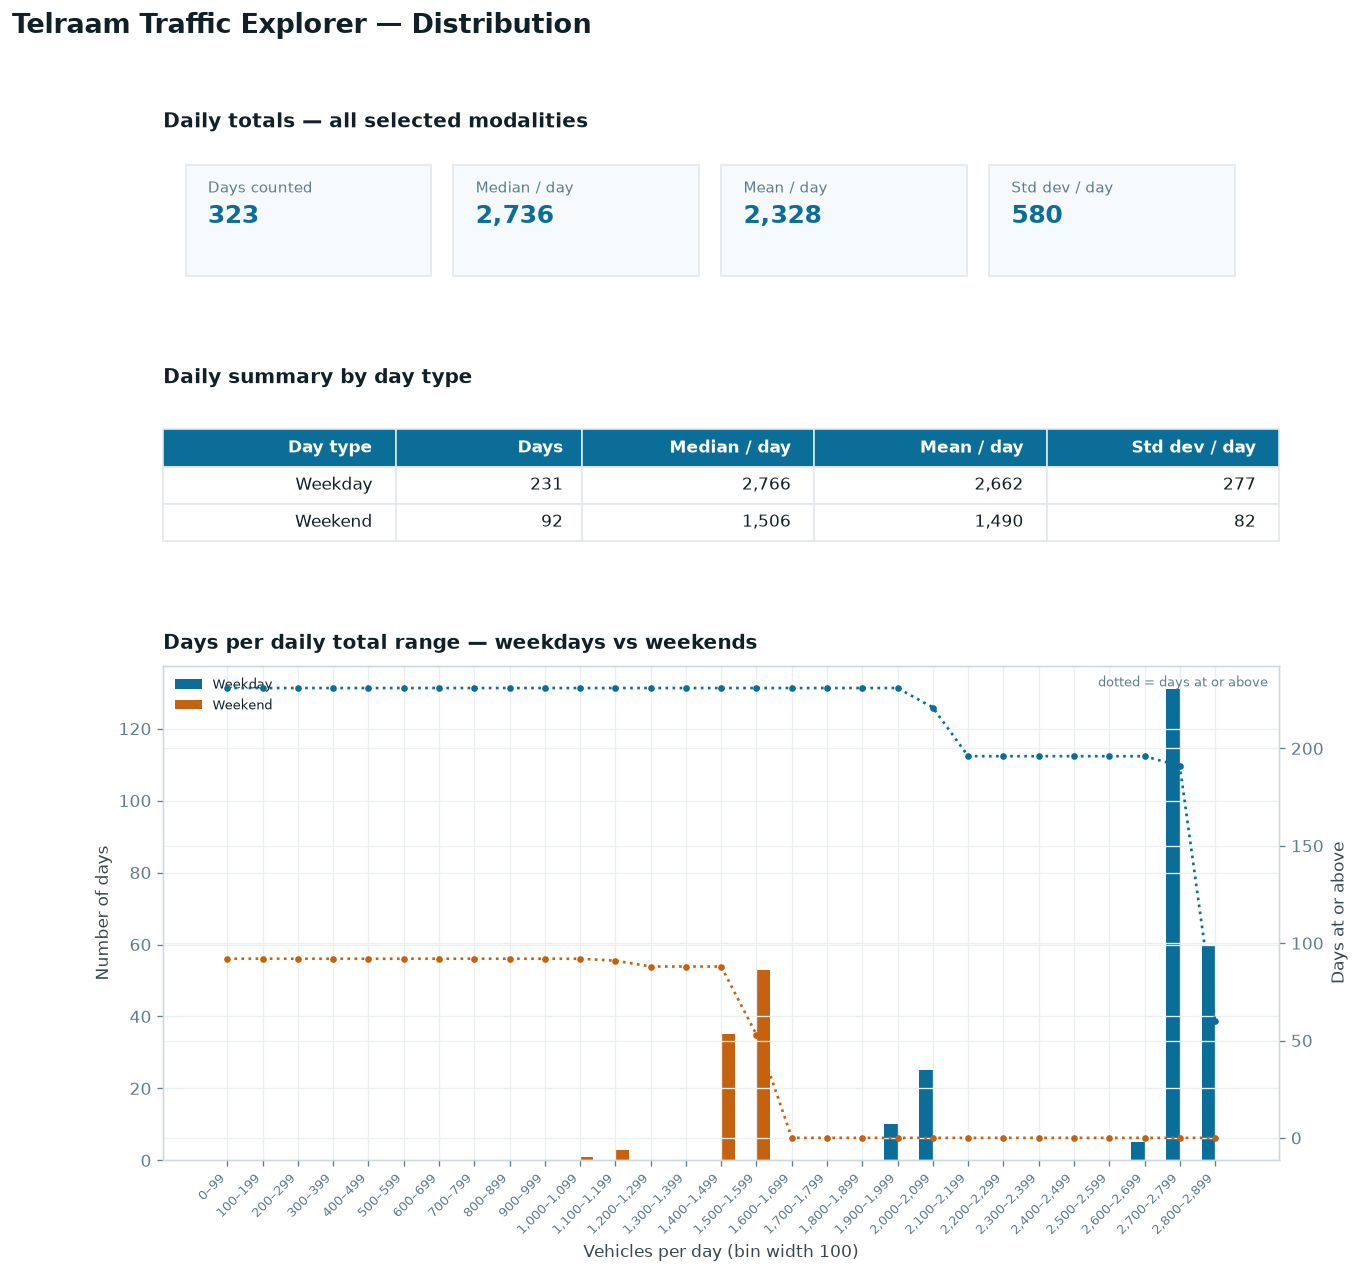
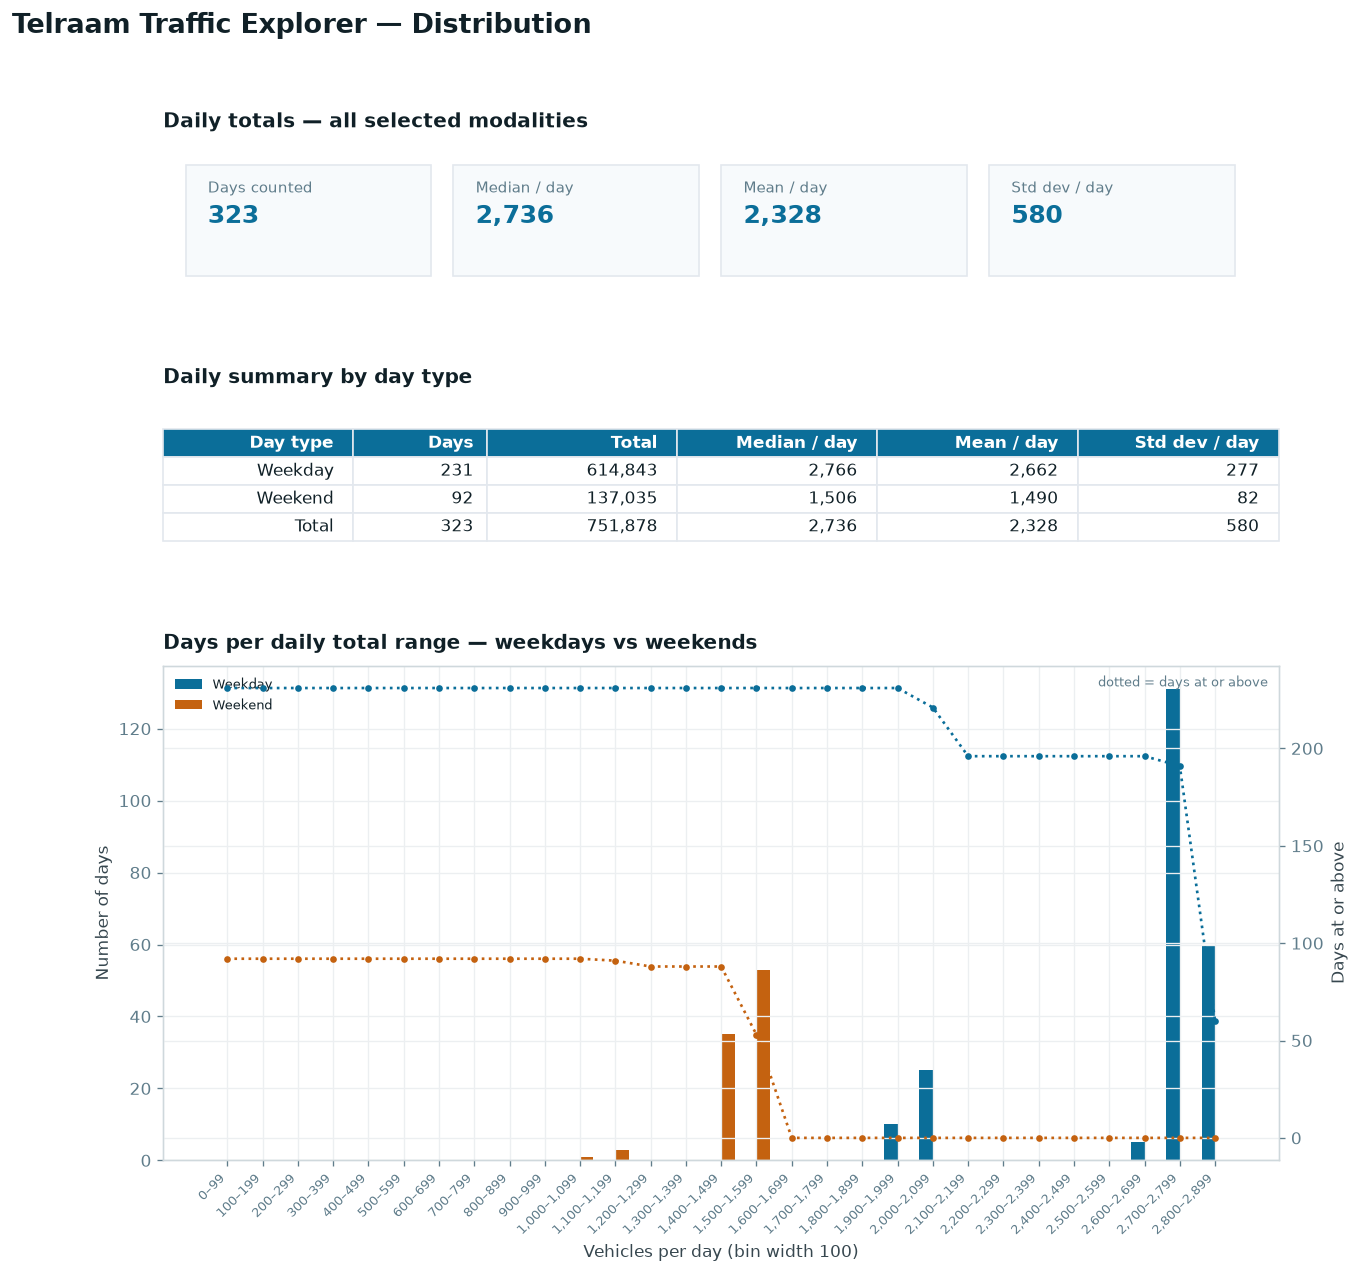
distribution: add summary totals and YTD preset

Changed region(s): [[0.1236, 0.337, 0.9581, 0.4289]]

diff --git a/views/distribution.py b/views/distribution.py
@@ -2,6 +2,7 @@
 
 from __future__ import annotations
 
+import pandas as pd
 import streamlit as st
 
 from analysis import (
@@ -86,16 +87,30 @@ def _kpi_cards(row, common_label: str | None = None) -> None:
     kpi_row(items)
 
 
-def _summary_display(summary):
-    return summary.rename(
+def _summary_display(summary, overall):
+    display = summary.rename(
         columns={
             DAY_TYPE_COL: "Day type",
             "days": "Days",
+            "total": "Total",
             "median": "Median / day",
             "mean": "Mean / day",
             "std": "Std dev / day",
         }
     )
+    total = pd.DataFrame(
+        [
+            {
+                "Day type": "Total",
+                "Days": int(overall["days"]),
+                "Total": overall["total"],
+                "Median / day": overall["median"],
+                "Mean / day": overall["mean"],
+                "Std dev / day": overall["std"],
+            }
+        ]
+    )
+    return pd.concat([display, total], ignore_index=True)
 
 
 def render() -> None:
@@ -169,12 +184,14 @@ def render() -> None:
 
     if split:
         st.subheader("Daily summary by day type")
+        display_summary = _summary_display(summary, overall)
         st.dataframe(
-            _summary_display(summary),
+            display_summary,
             use_container_width=True,
             hide_index=True,
             column_config={
                 "Days": st.column_config.NumberColumn(format="%d"),
+                "Total": st.column_config.NumberColumn(format="%d"),
                 "Median / day": st.column_config.NumberColumn(format="%.0f"),
                 "Mean / day": st.column_config.NumberColumn(format="%.0f"),
                 "Std dev / day": st.column_config.NumberColumn(format="%.0f"),
@@ -208,7 +225,7 @@ def render() -> None:
     csv_download(hist, "daily_distribution.csv", "Download distribution (CSV)")
     if split:
         csv_download(
-            _summary_display(summary),
+            display_summary,
             "daily_summary.csv",
             "Download summary (CSV)",
         )

diff --git a/tests/test_views_smoke.py b/tests/test_views_smoke.py
@@ -237,3 +237,49 @@ def test_typical_week_groups_follow_the_comparison_axis():
     assert weekday.loc["Sat"].isna().all()
     assert weekend.loc["Sat"].notna().all()
     assert weekend.loc["Mon"].isna().all()
+
+
+def test_distribution_summary_table_includes_a_total_row():
+    import pandas as pd
+
+    from views.distribution import _summary_display
+
+    summary = pd.DataFrame(
+        {
+            "day_type": ["Weekday", "Weekend"],
+            "days": [5, 2],
+            "total": [1200.0, 960.0],
+            "median": [240.0, 480.0],
+            "mean": [240.0, 480.0],
+            "std": [0.0, 0.0],
+        }
+    )
+    overall = pd.Series(
+        {
+            "days": 7,
+            "total": 2160.0,
+            "median": 240.0,
+            "mean": 308.571,
+            "std": 108.42,
+        }
+    )
+
+    display = _summary_display(summary, overall)
+
+    assert display.iloc[-1]["Day type"] == "Total"
+    assert display.iloc[-1]["Days"] == 7
+    assert display.iloc[-1]["Total"] == 2160.0
+    assert list(display.columns) == [
+        "Day type",
+        "Days",
+        "Total",
+        "Median / day",
+        "Mean / day",
+        "Std dev / day",
+    ]
+
+
+def test_sidebar_presets_include_year_to_date():
+    from ui.controls import RANGE_PRESETS, YEAR_TO_DATE
+
+    assert YEAR_TO_DATE in RANGE_PRESETS

diff --git a/ui/controls.py b/ui/controls.py
@@ -34,16 +34,19 @@ DEFAULT_MODALITIES = ("pedestrian", "bike", "car", "heavy", "night")
 
 # Range presets in days. ``None`` means "everything since the API's earliest
 # data"; ``CUSTOM_RANGE`` asks for explicit dates.
+CUSTOM_RANGE = "Custom range"
+YEAR_TO_DATE = "Year to date (YTD)"
+DEFAULT_RANGE = "All time"
+
 RANGE_PRESETS: dict[str, int | None] = {
     "Last 30 days": 30,
     "Last 90 days": 90,
     "Last 6 months": 182,
     "Last 12 months": 365,
+    YEAR_TO_DATE: -2,
     "All time": None,
-    "Custom range": -1,
+    CUSTOM_RANGE: -1,
 }
-CUSTOM_RANGE = "Custom range"
-DEFAULT_RANGE = "All time"
 
 
 def _date_range(config) -> tuple[date, date]:
@@ -61,11 +64,15 @@ def _date_range(config) -> tuple[date, date]:
         end = col_end.date_input("To", value=date.today(), key="range_end")
         return start, end + timedelta(days=1)
 
+    today = date.today()
+    end = today + timedelta(days=1)
+    if preset == YEAR_TO_DATE:
+        return date(today.year, 1, 1), end
+
     span = RANGE_PRESETS[preset]
-    end = date.today() + timedelta(days=1)
     if span is None:
         return config.earliest_data, end
-    return date.today() - timedelta(days=span - 1), end
+    return today - timedelta(days=span - 1), end
 
 
 def _load(segment_id: str, start: date, end: date) -> tuple[pd.DataFrame | None, str | None]:

diff --git a/scripts/render_previews.py b/scripts/render_previews.py
@@ -479,18 +479,30 @@ def render_distribution(out_dir: Path, dpi: int):
     ax_table = fig.add_subplot(gs[1, :])
     ax_table.axis("off")
     titled(ax_table, "Daily summary by day type")
-    rows = [["Day type", "Days", "Median / day", "Mean / day", "Std dev / day"]]
+    rows = [[
+        "Day type", "Days", "Total", "Median / day", "Mean / day",
+        "Std dev / day",
+    ]]
     for _, r in summary.iterrows():
         rows.append([
             r[DAY_TYPE_COL],
             int(r["days"]),
+            f"{r['total']:,.0f}",
             f"{r['median']:,.0f}",
             f"{r['mean']:,.0f}",
             f"{r['std']:,.0f}",
         ])
+    rows.append([
+        "Total",
+        int(overall["days"]),
+        f"{overall['total']:,.0f}",
+        f"{overall['median']:,.0f}",
+        f"{overall['mean']:,.0f}",
+        f"{overall['std']:,.0f}",
+    ])
     styled_table(
         ax_table, rows, [0.0, 0.05, 1.0, 0.75],
-        [0.2, 0.16, 0.2, 0.2, 0.2],
+        [0.17, 0.12, 0.17, 0.18, 0.18, 0.18],
     )
 
     ax = fig.add_subplot(gs[2])

diff --git a/tests/test_aggregates.py b/tests/test_aggregates.py
@@ -192,14 +192,17 @@ def test_daily_summary_splits_weekday_and_weekend(make_df):
     ).set_index(DAY_TYPE_COL)
 
     assert summary.loc["Weekday", "days"] == 5
+    assert summary.loc["Weekday", "total"] == 1200.0
     assert summary.loc["Weekday", "median"] == 240.0
     assert summary.loc["Weekday", "std"] == 0.0
     assert summary.loc["Weekend", "days"] == 2
+    assert summary.loc["Weekend", "total"] == 960.0
     assert summary.loc["Weekend", "median"] == 480.0
     assert summary.loc["Weekend", "std"] == 0.0
 
     overall = compute_daily_summary(df, "car").iloc[0]
     assert overall["days"] == 7
+    assert overall["total"] == 2160.0
     assert overall["median"] == 240.0
     assert overall["std"] > 0
 
@@ -214,4 +217,5 @@ def test_daily_summary_reports_population_standard_deviation():
 
     summary = compute_daily_summary(df, "car").iloc[0]
 
+    assert summary["total"] == 600.0
     assert math.isclose(summary["std"], 81.6497, rel_tol=1e-4)

diff --git a/analysis/aggregates.py b/analysis/aggregates.py
@@ -157,7 +157,7 @@ def compute_daily_histogram(
     return pd.DataFrame(_histogram_rows(binned), columns=columns)
 
 
-_DAILY_SUMMARY_COLUMNS = ["days", "median", "mean", "std"]
+_DAILY_SUMMARY_COLUMNS = ["days", "total", "median", "mean", "std"]
 
 
 def compute_daily_summary(
@@ -177,6 +177,7 @@ def compute_daily_summary(
     def stats(values: pd.Series) -> dict:
         return {
             "days": int(values.size),
+            "total": float(values.sum()),
             "median": float(values.median()),
             "mean": float(values.mean()),
             "std": float(values.std(ddof=0)),

diff --git a/README.md b/README.md
@@ -38,7 +38,7 @@ trends. This app fills that gap.
   by default) and count how many days fall in each, for any mode or aggregate
   such as motorised vehicles. A cumulative line and table column show how many
   days are at or above each range, and weekdays and weekends can be split apart.
-  Summary stats include median, mean and standard deviation.
+  Summary stats include totals, median, mean and standard deviation.
 - **Exclusions** — drop roadworks, closures or other anomalies from analysis;
   excluded ranges are shown on the trend chart.
 - **Speed, modal split and hourly profiles** — a speed distribution and a V85
